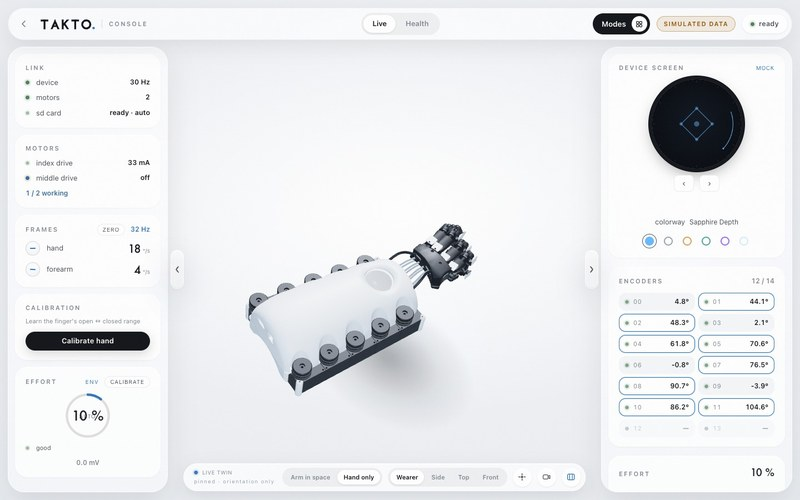
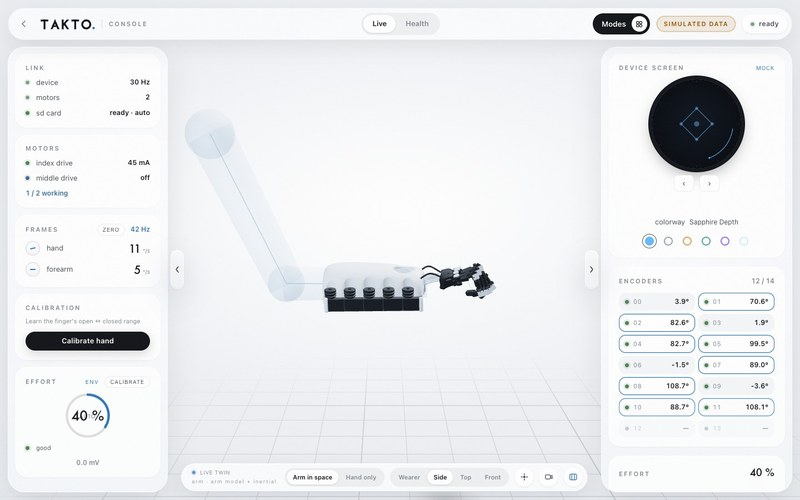
README: the console loop shows the whole arm, side on, fingers visible

diff --git a/README.md b/README.md
@@ -109,11 +109,11 @@ machine, and only when you connect it.
 <a href="https://takto.one/#/operator">
 <picture>
   <source media="(min-width: 768px) and (pointer: fine) and (prefers-reduced-motion: no-preference)" srcset="docs/media/console-live.gif">
-  <img src="docs/media/console-live-still.jpg" alt="The takto.one console: the twin's fingers curling while the encoder channels and the effort gauge update, labelled SIMULATED DATA" width="100%">
+  <img src="docs/media/console-live-still.jpg" alt="The takto.one console: the whole arm in space, side view, the fingers closing and opening while the encoder channels and the effort gauge update, labelled SIMULATED DATA" width="100%">
 </picture>
 </a>
 
-<sub><b>The console.</b> The twin, the twelve encoder channels, the motors and the effort gauge, here on the
+<sub><b>The console.</b> The whole arm in space with the twin's fingers closing and opening, the twelve encoder channels, the motors and the effort gauge, here on the
 built-in simulation (top right: SIMULATED DATA). Connect a real TAKTO ONE on your own machine and the
 same view runs live.</sub>
 
